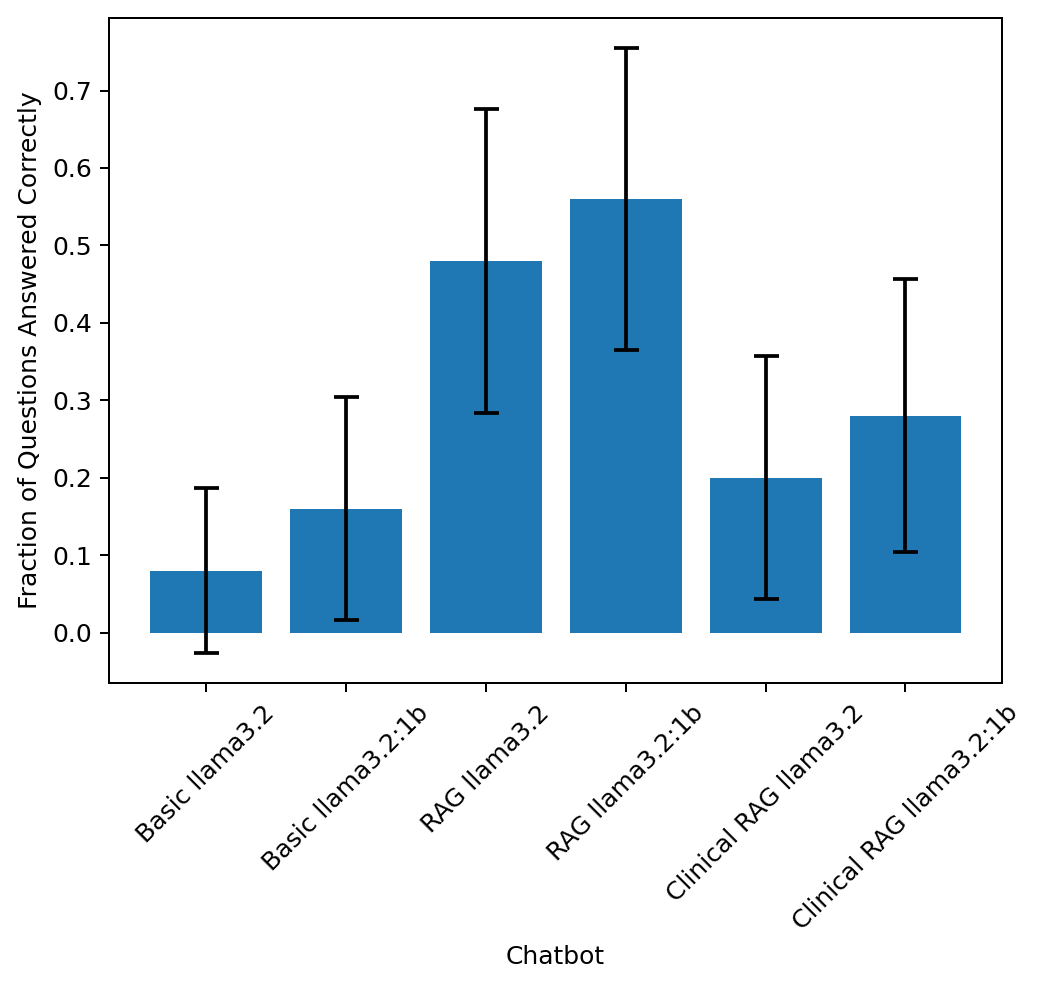
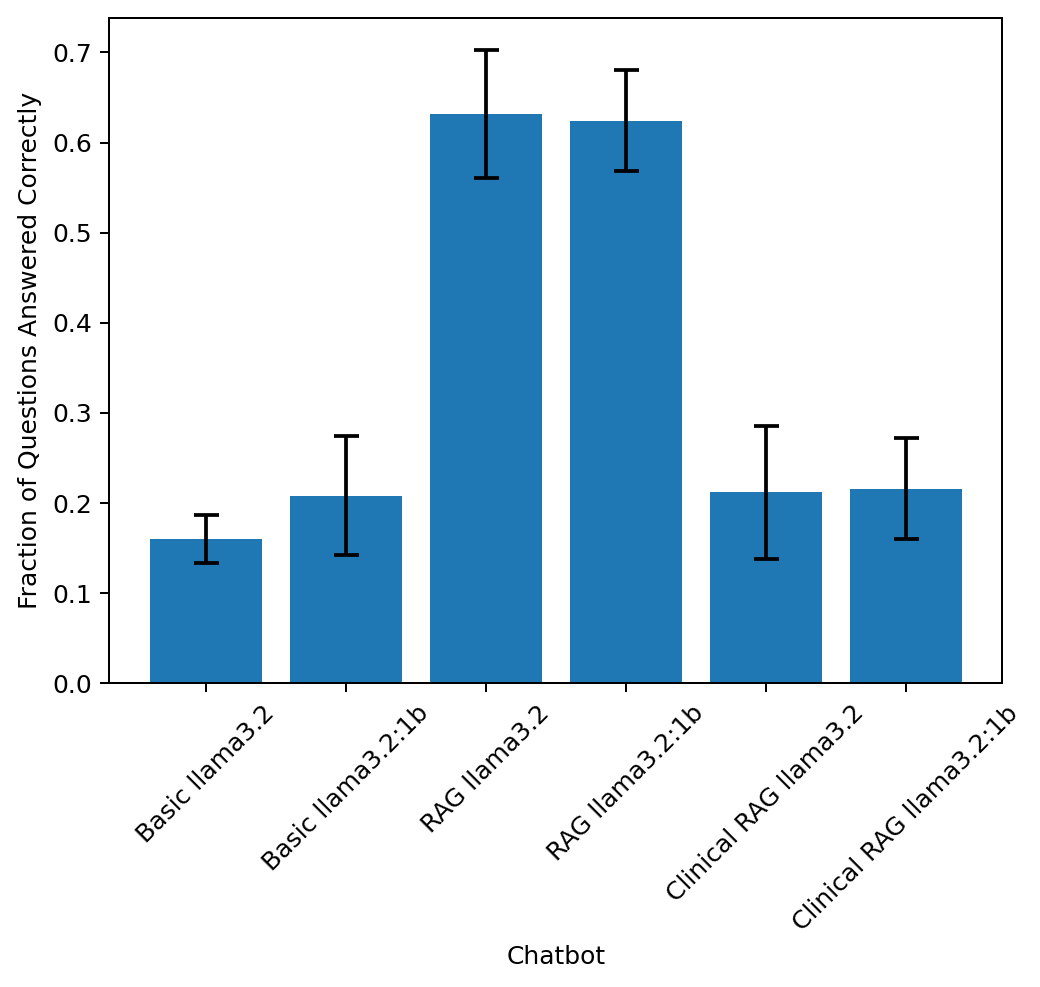
After discussion, changed correctness variance calculation to use bootstrap

diff --git a/src/evaluate.py b/src/evaluate.py
@@ -71,8 +71,34 @@ def evaluate_factualness(bot, qa_set):
         correctness[i] = 1 * answer_in_response(answers[i], responses[i])
         
     return np.mean(correctness)
+
+def bootstrap_correctness_interval(bot, qa_set, n_bootstrap=25, conf=0.95):
+    """Use bootstrapping to calculate correctness CI
+
+    Args:
+        bot (ChatBot): ChatBot to evaluate
+        qa_set (DataFrame): Correctness questions & answers
+        n_bootstrap (int, optional): Number of bootstrap samples. Defaults to 100.
+        alpha (float, optional): Confidence level. Defaults to 0.95.
+
+    Returns:
+        Tuple(float, float, float): Mean, lower bound, upper bound of CI
+    """
     
+    n_questions = len(qa_set)
     
+    correctness = []
+    for _ in range(n_bootstrap):
+        # resample rows with replacement
+        indices = np.random.choice(n_questions, size=n_questions, replace=True)
+        sample = qa_set.iloc[indices].copy()
+        correctness.append(evaluate_factualness(bot, sample))
+    center = np.mean(correctness)
+    alpha = 1 - conf
+    t_value = stats.t.ppf(1 - alpha/2, df=n_bootstrap-1)
+    std_error = np.std(correctness, ddof=1)/np.sqrt(n_bootstrap)
+    return center, t_value*std_error
+
 def wilson_score_interval(accuracy, n, confidence=0.95):
     """Compute error bar for proportion-based metrics
 
@@ -100,6 +126,7 @@ def main():
     runtime_means = []
     runtime_stds = []
     correctness_scores = []
+    correctness_error_bars = []
     n_trials = 25
     for i, bot in tqdm(enumerate(bots)):
         mean, std = measure_response_time(bot, n_trials)
@@ -107,15 +134,14 @@ def main():
         runtime_stds.append(std)
         print("\n" + bot_names[i])
         print(f"Avg Runtime {mean} seconds; St dev {std}")
-        
-        correctness = evaluate_factualness(bot, facts_qa)
-        correctness_scores.append(correctness)
-        print(f"Correctness {correctness}")
+        c, interval = bootstrap_correctness_interval(bot, facts_qa, n_bootstrap=10)
+        correctness_scores.append(c)
+        correctness_error_bars.append(interval)
+        print(f"Correctness {c} +/- {interval}")
     
     
     # plot correctness and runtimes
     plt.bar(bot_names, correctness_scores)
-    correctness_error_bars = [wilson_score_interval(c, len(facts_qa)) for c in correctness_scores]
     plt.errorbar(bot_names, correctness_scores, yerr=correctness_error_bars, capsize=5, ecolor='black',elinewidth=1.5, capthick=1.5, fmt='none')
     plt.xlabel('Chatbot')
     plt.xticks(rotation=45)
